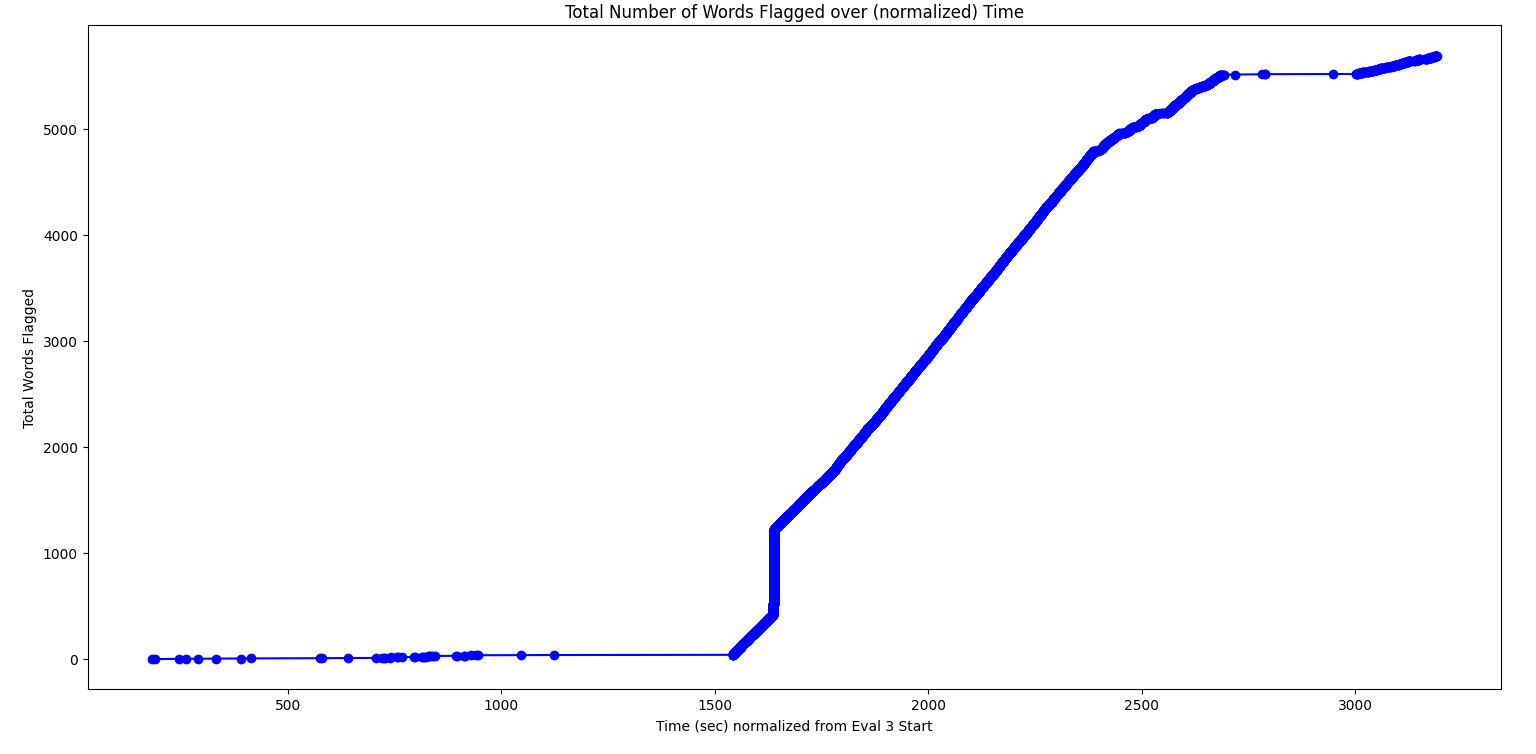
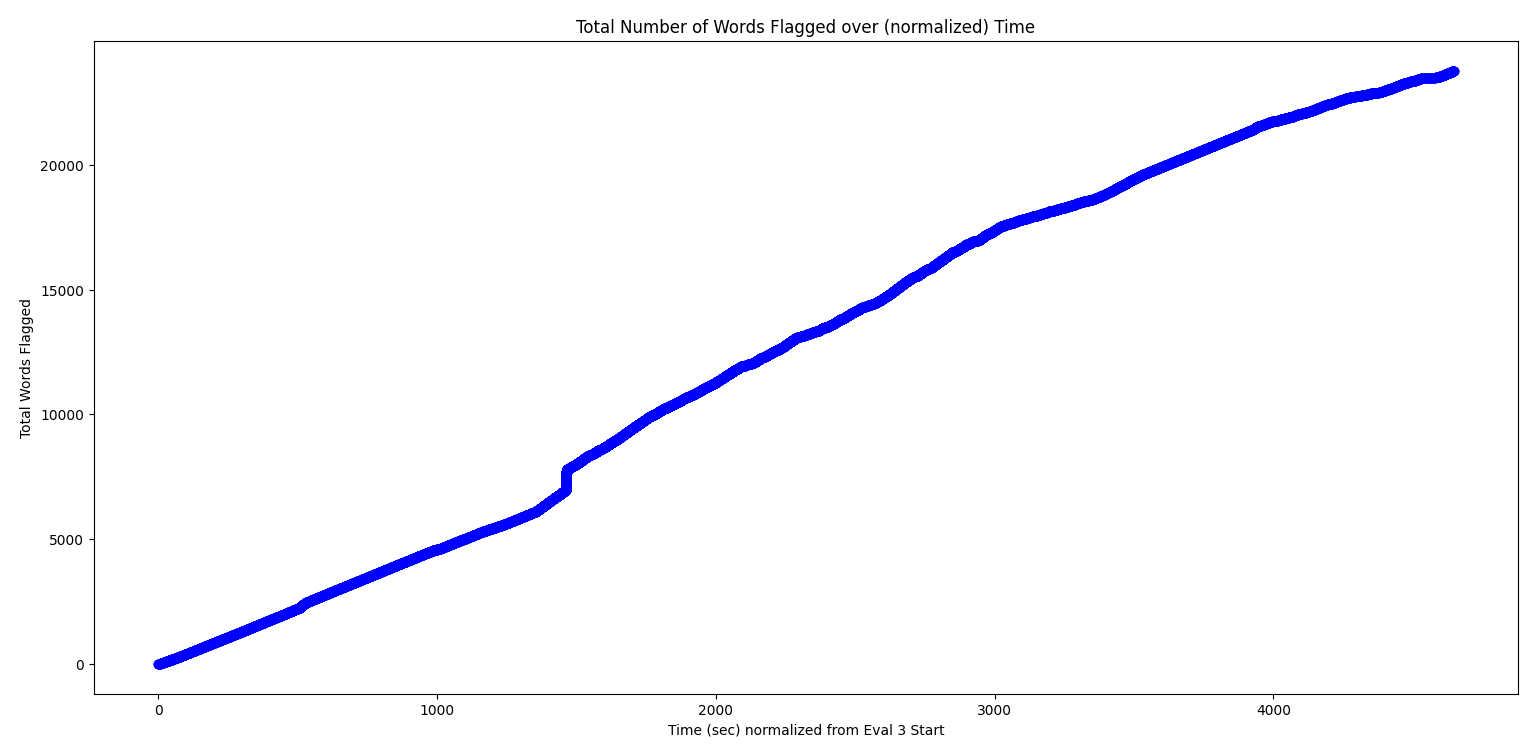
Finished Graphix for Eval3 and coded graphix for eval2. Worked out all bugs for eval4.

diff --git a/ARINC429 Simulation/IDS_EVAL3.py b/ARINC429 Simulation/IDS_EVAL3.py
@@ -168,6 +168,7 @@ def main():
     prev_roro = rolls[0]
     prev_indicated_angle_of_attack = interprolated_aoa[0]
     alert_logs_hits_time = []
+    als = []
     timer_alert_log_start = time()
     # I have 17944 data points in each array:
     for index in range(17944):
@@ -196,47 +197,71 @@ def main():
         iaoaWord = transmitting_LRU.encode_word(0o221)
         # Send to FMC & IDS:
         # Handle Altitude Words:
-        IDS_test_numX.alert_or_log(altWord)
+        hit, _alert_log_ = IDS_test_numX.alert_or_log(altWord)
+        if(hit):
+            alert_logs_hits_time.append(time())
+            als.append([time(),_alert_log_])
         IDS_test_numX.n += 1
         fmc_word1 = FMC_.decodeADIRUword(altWord, prev_altitude)
-        hit = IDS_test_numX.alert_or_log(fmc_word1)
+        hit, _alert_log_ = IDS_test_numX.alert_or_log(fmc_word1)
         if(hit):
             alert_logs_hits_time.append(time())
+            als.append([time(),_alert_log_])
         # Handle Ground Speed Words:
-        IDS_test_numX.alert_or_log(gsWord)
+        hit, _alert_log_ = IDS_test_numX.alert_or_log(gsWord)
+        if(hit):
+            alert_logs_hits_time.append(time())
+            als.append([time(),_alert_log_])
         IDS_test_numX.n += 1
         fmc_word2 = FMC_.decodeADIRUword(gsWord, prev_gs)
-        hit = IDS_test_numX.alert_or_log(fmc_word2)
+        hit, _alert_log_ = IDS_test_numX.alert_or_log(fmc_word2)
         if(hit):
             alert_logs_hits_time.append(time())
+            als.append([time(),_alert_log_])
         # Handle Latitude Words:
-        IDS_test_numX.alert_or_log(latWord)
+        hit, _alert_log_ = IDS_test_numX.alert_or_log(latWord)
+        if(hit):
+            alert_logs_hits_time.append(time())
+            als.append([time(),_alert_log_])
         IDS_test_numX.n += 1
         fmc_word3 = FMC_.decodeADIRUword(latWord, prev_lat_)
-        hit = IDS_test_numX.alert_or_log(fmc_word3)
+        hit, _alert_log_ = IDS_test_numX.alert_or_log(fmc_word3)
         if(hit):
             alert_logs_hits_time.append(time())
+            als.append([time(),_alert_log_])
         # Handle Longitude Words:
-        IDS_test_numX.alert_or_log(lonWord)
+        hit, _alert_log_ = IDS_test_numX.alert_or_log(lonWord)
+        if(hit):
+            alert_logs_hits_time.append(time())
+            als.append([time(),_alert_log_])
         IDS_test_numX.n += 1
         fmc_word4 = FMC_.decodeADIRUword(lonWord, prev_lon_)
-        hit = IDS_test_numX.alert_or_log(fmc_word4)
+        hit, _alert_log_ = IDS_test_numX.alert_or_log(fmc_word4)
         if(hit):
             alert_logs_hits_time.append(time())
+            als.append([time(),_alert_log_])
         # Handle Roll Words:
-        IDS_test_numX.alert_or_log(rollWord)
+        hit, _alert_log_ = IDS_test_numX.alert_or_log(rollWord)
+        if(hit):
+            alert_logs_hits_time.append(time())
+            als.append([time(),_alert_log_])
         IDS_test_numX.n += 1
         fmc_word5 = FMC_.decodeADIRUword(rollWord, prev_roro)
-        hit = IDS_test_numX.alert_or_log(fmc_word5)
+        hit, _alert_log_ = IDS_test_numX.alert_or_log(fmc_word5)
         if(hit):
             alert_logs_hits_time.append(time())
+            als.append([time(),_alert_log_])
         # Handle Indicated Angle of Attack Words:
-        IDS_test_numX.alert_or_log(iaoaWord)
+        hit, _alert_log_ = IDS_test_numX.alert_or_log(iaoaWord)
+        if(hit):
+            alert_logs_hits_time.append(time())
+            als.append([time(),_alert_log_])
         IDS_test_numX.n += 1
         fmc_word6 = FMC_.decodeADIRUword(iaoaWord, prev_indicated_angle_of_attack)
-        hit = IDS_test_numX.alert_or_log(fmc_word6)
+        hit, _alert_log_ = IDS_test_numX.alert_or_log(fmc_word6)
         if(hit):
             alert_logs_hits_time.append(time())
+            als.append([time(),_alert_log_])
         # Record the next prev value for the FMC:
         prev_altitude = altitude
         prev_gs = gs
@@ -266,9 +291,10 @@ def main():
             print("Executing Attack.")
             downword = '01101100110000111100000000000000'
             for x in range(100):
-                hit = IDS_test_numX.alert_or_log(downword)
+                hit, _alert_log_ = IDS_test_numX.alert_or_log(downword)
                 if(hit):
                     alert_logs_hits_time.append(time())
+                    als.append([time(),_alert_log_])
                 IDS_test_numX.n += 1
             #cont = input("asdf")
 
@@ -287,6 +313,34 @@ def main():
     plt.ylabel("Total Words Flagged")
     plt.title("Total Number of Words Flagged over (normalized) Time")
     #plt.xticks(np.arange(min(ts),max(ts)+1,tickrate))
+    plt.show()
+    plt.grid(True)
+    plt.clf()
+    # Show the plot as stacked histogram.
+    _alerts_ = []
+    a_cnt = 0
+    _logs_ = []
+    l_cnt = 0
+    _alertlog_ = []
+    al_cnt = 0
+    for alelo in als:
+        if(alelo[1] == "alert"):
+            a_cnt += 1
+        elif(alelo[1] == "log"):
+            l_cnt += 1
+        elif(alelo[1] == "alert/log"):
+            al_cnt += 1
+        _alerts_.append(a_cnt)
+        _logs_.append(l_cnt)
+        _alertlog_.append(al_cnt)
+    #print(_logs_, _alertlog_)
+    print(_alerts_, _logs_, _alertlog_)
+    plt.stackplot(ts, _alerts_, _logs_, _alertlog_, labels=['Alerts', 'Logs', 'Both'])
+    plt.title('Stacked Area Chart of Words Flagged Over Time')
+    plt.xlabel('Time (sec) Normalized')
+    plt.ylabel('Total Words Flagged')
+    plt.legend(loc='upper left')
+    plt.grid(True)
     plt.show()
 
 if __name__ == '__main__':

diff --git a/ARINC429 Simulation/IDS_EVAL2.py b/ARINC429 Simulation/IDS_EVAL2.py
@@ -1,5 +1,6 @@
 import os
 import pytest
+import matplotlib.pyplot as plt
 
 from ARINC429_IDS import arinc429_intrusion_detection_system as IDS
 from LRU_ADIRU_Simulator import air_data_inertial_reference_unit as ADIRU
@@ -87,6 +88,8 @@ def main():
     print(f"Finished opening and analyzing flight data in {round(timer_end-timer_start,3)} seconds.")
     cont = input("Press enter to start the test.")
 
+    times = []
+    als = []
     timer_start = time()
     print("Beginning flight data evaluation 2...")
     # Length of Airspeed, corrected_aoas, and indicated_aoas are 4 times that of length of latitudes and longitudes
@@ -108,13 +111,25 @@ def main():
         print(f"Sending words:\nAirspeed BCD:\t\t\t\t\t0b{airspeed_word_bcd},\nAirspeed BNR:\t\t\t\t\t0b{airspeed_word_bnr},")
         print(f"Corrected Angle of Attack:\t\t0b{corrected_aoa_word},\nIndicated Angle of Attack:\t\t0b{indicated_aoa_word},")
         # See if it alerts/logs correctly:
-        IDS_test_numX.alert_or_log(airspeed_word_bcd)
+        hit, _alert_log_ = IDS_test_numX.alert_or_log(airspeed_word_bcd)
+        if(hit):
+            times.append(time())
+            als.append([time(),_alert_log_])
         IDS_test_numX.n += 1 # normally the RX func would update this but since we're just feeding words straight we gotta help IDS out a bit.
-        IDS_test_numX.alert_or_log(airspeed_word_bnr)
+        hit, _alert_log_ = IDS_test_numX.alert_or_log(airspeed_word_bnr)
+        if(hit):
+            times.append(time())
+            als.append([time(),_alert_log_])
         IDS_test_numX.n += 1
-        IDS_test_numX.alert_or_log(corrected_aoa_word)
+        hit, _alert_log_ = IDS_test_numX.alert_or_log(corrected_aoa_word)
+        if(hit):
+            times.append(time())
+            als.append([time(),_alert_log_])
         IDS_test_numX.n += 1
-        IDS_test_numX.alert_or_log(indicated_aoa_word)
+        hit, _alert_log_ = IDS_test_numX.alert_or_log(indicated_aoa_word)
+        if(hit):
+            times.append(time())
+            als.append([time(),_alert_log_])
         IDS_test_numX.n += 1
         # Repeat this for lat and lon, except every 4 words because it tx's 1/4 as much.
         if(index % 4 == 0):
@@ -148,9 +163,15 @@ def main():
                 IDS_test_numX.alert_or_log(lon_word_bcd)
                 IDS_test_numX.alert_or_log(lat_word_bcd)
                 """
-                IDS_test_numX.alert_or_log(lat_word_bnr)
+                hit, _alert_log_ = IDS_test_numX.alert_or_log(lat_word_bnr)
+                if(hit):
+                    times.append(time())
+                    als.append([time(),_alert_log_])
                 IDS_test_numX.n += 1
-                IDS_test_numX.alert_or_log(lon_word_bnr)
+                hit, _alert_log_ = IDS_test_numX.alert_or_log(lon_word_bnr)
+                if(hit):
+                    times.append(time())
+                    als.append([time(),_alert_log_])
                 IDS_test_numX.n += 1
                 #cont = input("")
             except IndexError:
@@ -172,6 +193,46 @@ def main():
     print("Number of alerts:", numAlertLines)
     print("Number of logs:", numLogLines)
     #assert(calculated_numAlertLines == numAlertLines and calculated_numLogLines == numLogLines)
+    # Graph the number of alerts & logs
+    ts = []
+    itms = []
+    cnt = 0
+    for t in times:
+        ts.append(t - timer_start)
+        itms.append(cnt)
+        cnt += 1
+    plt.plot(ts, itms,'bo-')
+    plt.xlabel("Time (sec) normalized from Eval 3 Start")
+    plt.ylabel("Total Words Flagged")
+    plt.title("Total Number of Words Flagged over (normalized) Time")
+    #plt.xticks(np.arange(min(ts),max(ts)+1,tickrate))
+    plt.show()
+    # Show the plot as stacked histogram.
+    _alerts_ = []
+    a_cnt = 0
+    _logs_ = []
+    l_cnt = 0
+    _alertlog_ = []
+    al_cnt = 0
+    for alelo in als:
+        if(alelo[1] == "alert"):
+            a_cnt += 1
+        elif(alelo[1] == "log"):
+            l_cnt += 1
+        elif(alelo[1] == "alert/log"):
+            al_cnt += 1
+        _alerts_.append(a_cnt)
+        _logs_.append(l_cnt)
+        _alertlog_.append(al_cnt)
+    #print(_logs_, _alertlog_)
+    print(_alerts_, _logs_, _alertlog_)
+    plt.stackplot(ts, _alerts_, _logs_, _alertlog_, labels=['Alerts', 'Logs', 'Both'])
+    plt.title('Stacked Area Chart of Words Flagged Over Time')
+    plt.xlabel('Time (sec) Normalized')
+    plt.ylabel('Total Words Flagged')
+    plt.legend(loc='upper left')
+    plt.grid(True)
+    plt.show()
 
 if __name__ == '__main__':
     main()

diff --git a/ARINC429 Simulation/ARINC429_IDS.py b/ARINC429 Simulation/ARINC429_IDS.py
@@ -51,7 +51,7 @@ class arinc429_intrusion_detection_system:
 
         0o013: {0x002: ["BCD", 0.1, (0.0, 359.9)],
                 0x004: ["BCD", 0.1, (0.0, 359.9)],
-                0x038: ["BCD", 0.1, (0.0, 79999.0)],
+                0x038: ["BCD", 1.0, (0.0, 79999.0)],
                 0x04d: ["BCD", 1.0, (0.0, 359.9)],
                 0x0b8: ["DISC", 0.0]},
 
@@ -5427,6 +5427,9 @@ class arinc429_intrusion_detection_system:
 
     def alert_or_log(self, word: str):
         flag_this_tuple = False
+
+        this_word_alerted_or_logged = False
+
         #self.rules.add(
         # 0 (alert_log,
         # 1 channel,
@@ -5435,6 +5438,7 @@ class arinc429_intrusion_detection_system:
         # 4 time_notate,
         # 5 message)
         # )
+        a_o_r = "None"
         with open(self.log_filepath, "a") as log_fd:
             with open(self.alert_filepath, "a") as alert_fd:
                 for _tuple_ in self.rules:
@@ -5465,12 +5469,16 @@ class arinc429_intrusion_detection_system:
                                 flag_this_tuple = True
                     # Part 2: If the word is flagged, the log it appropriately.
                     if (flag_this_tuple and time_notate):
+                        a_o_r = _tuple_[0]
+                        this_word_alerted_or_logged = True
                         if (_tuple_[0].__contains__("alert")):
                             alert_fd.write(f"{ctime()}: Alert! {_tuple_[5]}\n")
                         if (_tuple_[0].__contains__("log")):
                             #input(_tuple_)
                             log_fd.write(f"{ctime()}: {word} {_tuple_[5]}\n")
                     elif (flag_this_tuple and time_notate == False):
+                        a_o_r = _tuple_[0]
+                        this_word_alerted_or_logged = True
                         if (_tuple_[0].__contains__("alert")):
                             alert_fd.write(f"Alert! {_tuple_[5]}\n")
                         if (_tuple_[0].__contains__("log")):
@@ -5478,7 +5486,7 @@ class arinc429_intrusion_detection_system:
                             log_fd.write(f"Logged word #{self.n}: {word} {_tuple_[5]}\n")
             alert_fd.close()
         log_fd.close()
-        return((flag_this_tuple, _tuple_[0]))
+        return((this_word_alerted_or_logged, a_o_r))
 
     def log_all_words(self, channel_index):
         with open(self.default_filepath + r"Logs/" + f"Logs_{self.start_time}.txt", "a") as logs_fd:

diff --git a/ARINC429 Simulation/IDS_Rules_test_files/IDS_EVAL4_RULES_FILES/cases_calc.py b/ARINC429 Simulation/IDS_Rules_test_files/IDS_EVAL4_RULES_FILES/cases_calc.py
@@ -1,0 +1,6 @@
+cnt = 0
+for x in range(2):
+    for y in range(2, 21):
+        for z in range(1,5000):
+            cnt += 1
+print(cnt)
